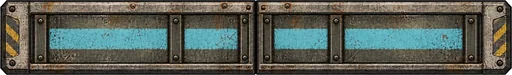
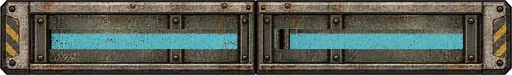
潜入: 自動ドアの水色帯を連続化し横型の塗り幅を上下25%拡大

Changed region(s): [[0.0938, 0.3733, 0.4688, 0.6667], [0.5312, 0.3733, 0.9062, 0.6667], [0.75, 0.5333, 0.7812, 0.56]]

diff --git a/index.html b/index.html
@@ -864,7 +864,7 @@ const cv=document.getElementById('c'),gm=gameCanvasContext(cv,{alpha:false}),oc=
 const canvasCreationDiagnostics={requested:MOBILE_READBACK_CANVAS,accepted:null};
 try{const attributes=gm.getContextAttributes?.();if(attributes&&typeof attributes.willReadFrequently==='boolean')canvasCreationDiagnostics.accepted=attributes.willReadFrequently;}catch(_){}
 window.tankCanvasDiagnostics=canvasCreationDiagnostics;
-const GAME_VERSION='2026.10.21.0840',FILE_CREATED_AT='2026/10/21 08:40',DRILL_ACTIVE=5,DRILL_RECHARGE=6,DIG_PREP_DURATION=.5;
+const GAME_VERSION='2026.10.21.0903',FILE_CREATED_AT='2026/10/21 09:03',DRILL_ACTIVE=5,DRILL_RECHARGE=6,DIG_PREP_DURATION=.5;
 // 表示・保存用のm換算。移動・評価は内部座標のまま扱う。
 const distanceMeters=distance=>Math.round(Math.max(0,distance)/10);
 let audioCtx=null;
@@ -8017,7 +8017,7 @@ function reportGameError(error){
 <script src="js/maze-walls.js?v=2026.10.14.1653"></script>
 <script src="js/canyon.js?v=2026.10.14.1836"></script>
 <script src="js/vegetation.js?v=2026.10.14.1653"></script>
-<script src="js/infiltration-world.js?v=2026.10.20.1219"></script>
+<script src="js/infiltration-world.js?v=2026.10.21.0903"></script>
 <script>
 (function(){
 // iPhone Chrome/Safari: synthetic KeyboardEvent に依存せず、ゲーム内部の入力状態を直接更新する。

diff --git a/js/infiltration-world.js b/js/infiltration-world.js
@@ -2760,7 +2760,7 @@ function indoorPropImage(kind){
   if(!kind)return null;
   if(!Object.prototype.hasOwnProperty.call(indoorPropImages,kind)){
     const image=new Image();image.decoding='async';
-    image.src='assets/indoor/'+kind+'.webp'+(INDOOR_PROP_ASPECT[kind]?'?v=20261020-r2':'');indoorPropImages[kind]=image;
+    image.src='assets/indoor/'+kind+'.webp'+(kind==='automatic_door_cyan'||kind==='automatic_door_horizontal_cyan'?'?v=20261021-continuous':INDOOR_PROP_ASPECT[kind]?'?v=20261020-r2':'');indoorPropImages[kind]=image;
   }
   const image=indoorPropImages[kind];return assetOK(image)?image:null;
 }

diff --git a/assets/indoor/automatic_doors_cyan.prompt.md b/assets/indoor/automatic_doors_cyan.prompt.md
@@ -1,5 +1,9 @@
 # Cyan inner-panel door variants
 
+## 2026-10-21 continuous stripe revision (supersedes reinforcing-bar interruptions below)
+
+Built-in imagegen precise-object-edit from both current cyan sprites: make each leaf's cyan stripe uninterrupted across internal reinforcing ribs, leaving the existing unpainted central opening unchanged. Vertical stripe keeps its height. Horizontal stripe extends upward and downward by 25% of the original 20-pixel band, making a 30-pixel band. Preserve outer frames, silhouette, hazards, central seam, front face and transparency. Only the generated stripe regions were composited into the original 512-pixel-wide sprites to retain surrounding artwork. Export dimensions remain 512x75 and 512x206; WebP quality 90. No runtime geometry or AI changes.
+
 Edited with built-in imagegen from automatic_door.webp (top-only vertical source) and automatic_door_horizontal_front10x.webp (horizontal source). Both receive worn light-cyan bands inside their upper recessed panels; frames, hazard markings and horizontal front face remain unpainted. Exported as transparent WebP: automatic_door_cyan.webp 512 × 75 and automatic_door_horizontal_cyan.webp 512 × 206. Runtime widens the vertical artwork and frame by 1.5 while retaining its collider, opening contact, length and center. Horizontal positioning and sizing stay unchanged. Existing source assets are retained.
 
 ## Vertical source prompt
